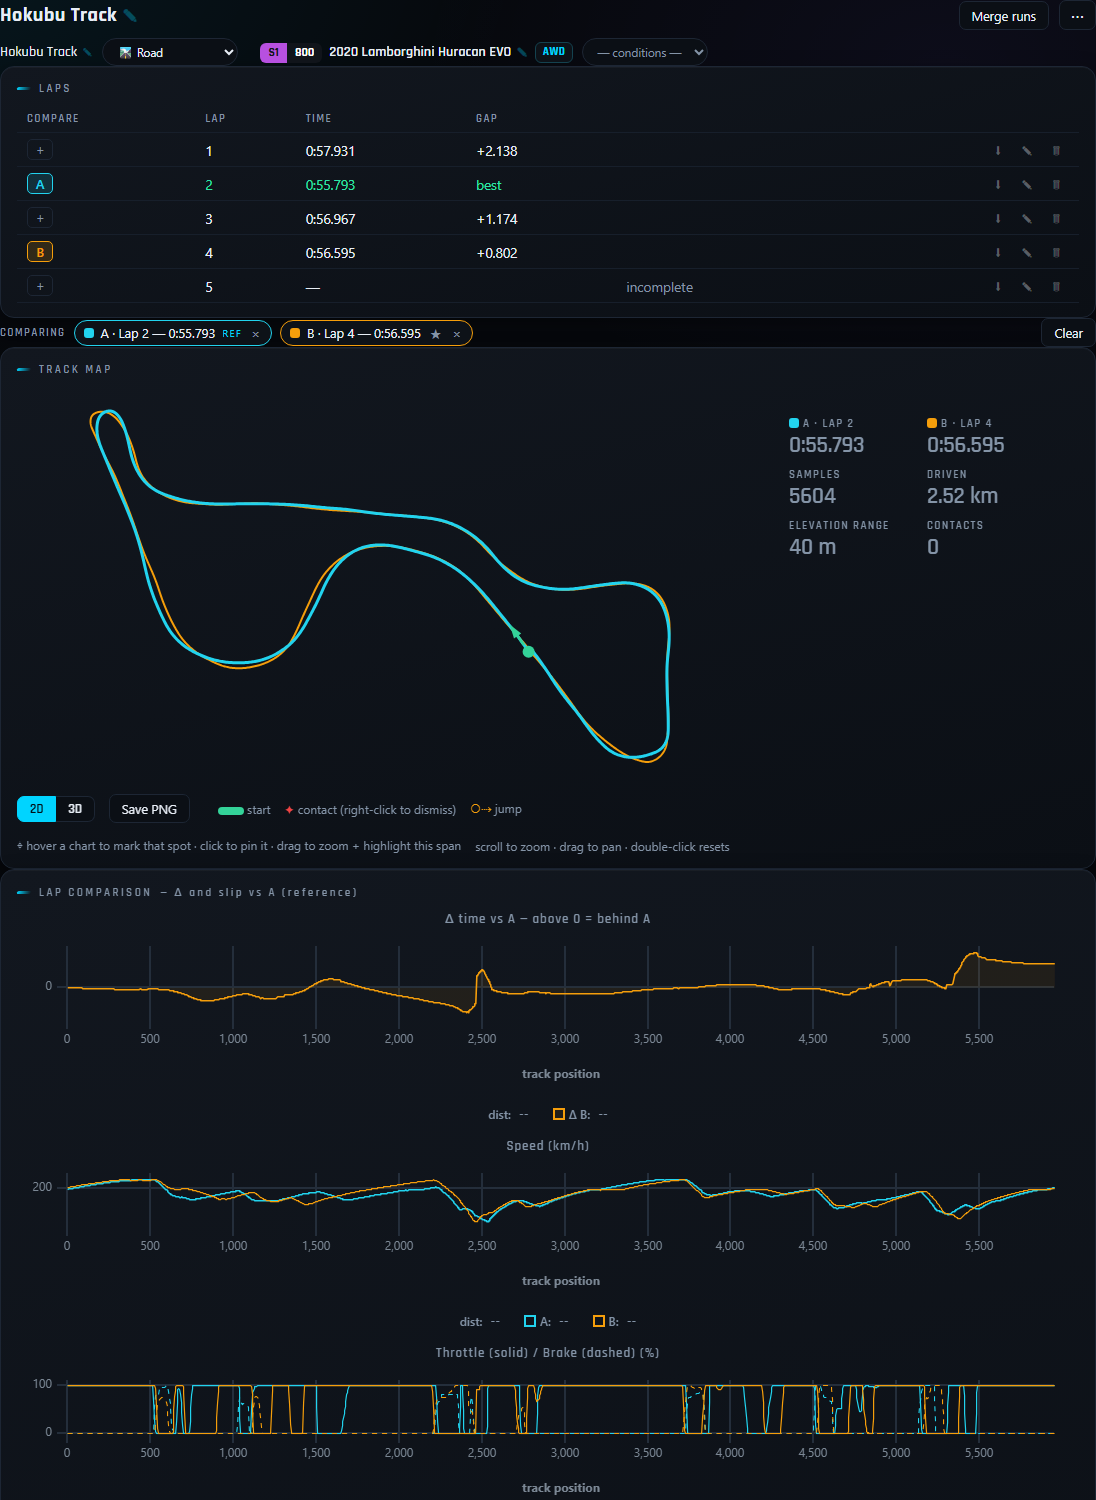
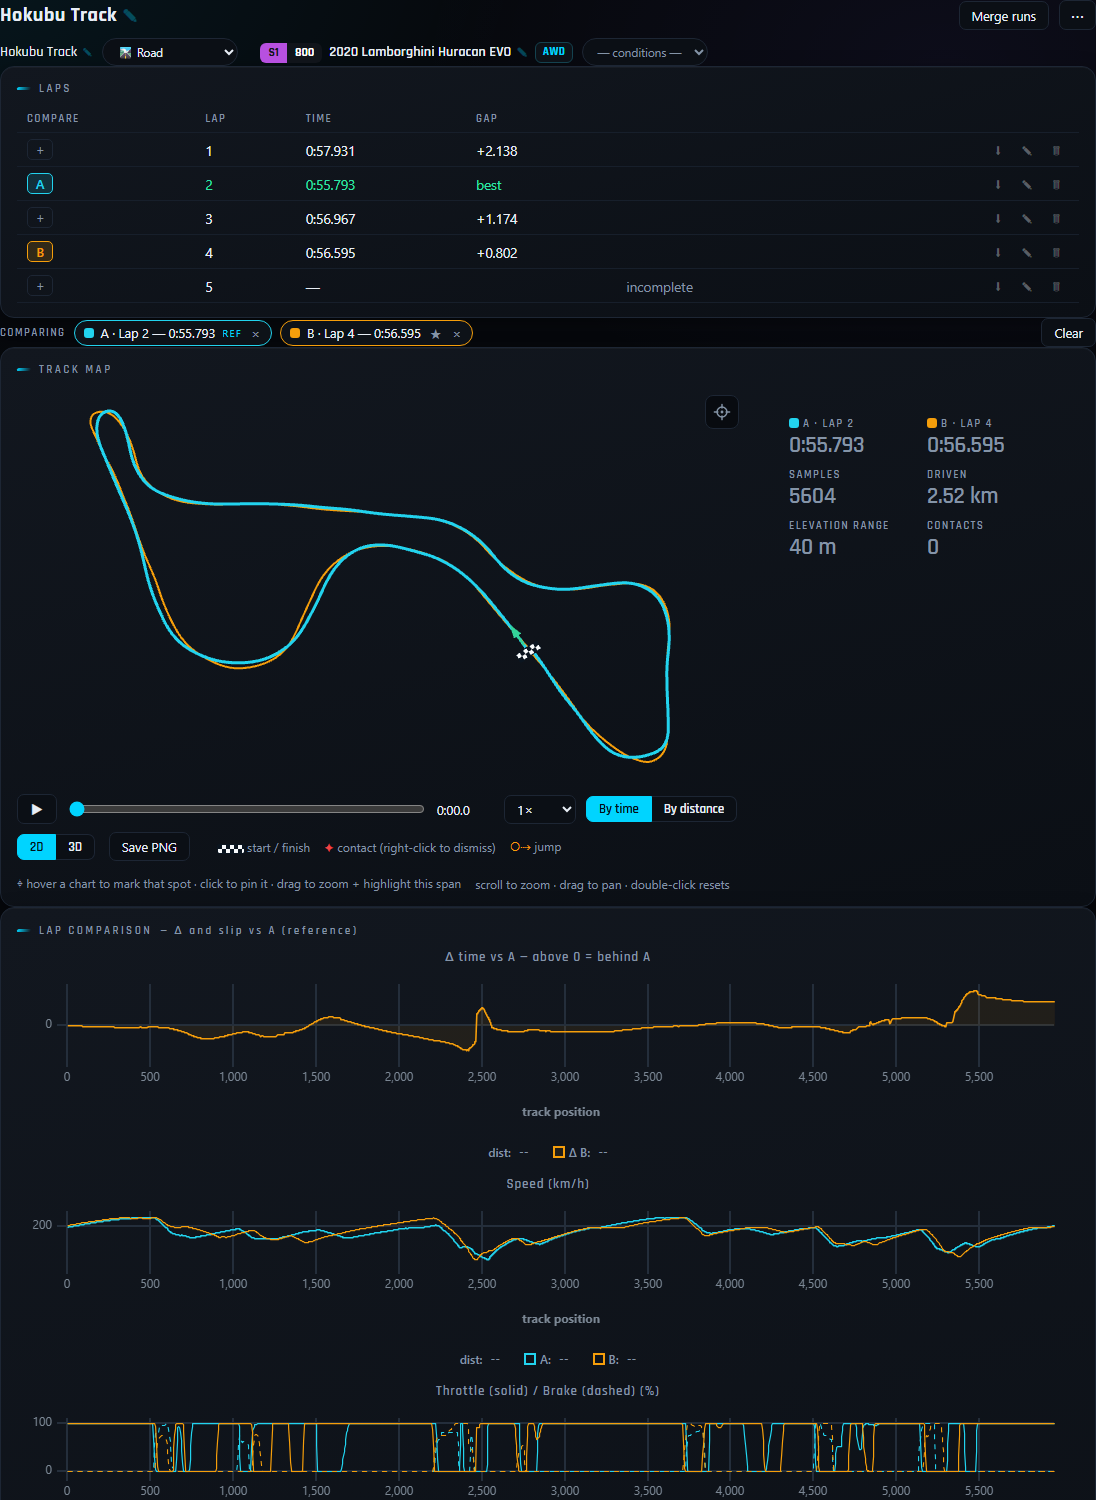
docs: recapture README and wiki media for the cockpit and the Pixi Analysis map (#100) (#114)
Closes #100.

## Media

Regenerated from the real `telemetry.db` with `tools/capture_media.py`:

| Output | Change |
|---|---|
| `hero.gif` | now the PixiJS cockpit (5.3 MB, under the 10 MB budget) |
| `accent-live-sunset.png`, `paused-chip.png` | cockpit; the paused crop
still frames the chip and the dim |
| `analysis-compare.png`, `track-map.png`, `track-map-3d-jumps.png`,
`track-map-3d-animated.gif` | Pixi map: replay row, chequered
start/finish line |
| **new** `ghost-replay.gif` | three Daikoku laps (0:47.154 / 0:47.625 /
0:47.898) racing on the map, follow camera on lap A, live gaps |
| **new** `cockpit-portrait.png` | the cockpit's tall layout at tablet
size |

`session-list`, `session-sidebar`, `browse-bar-menu`,
`csv-export-choice` and `settings` were recaptured too but differ only
in data (newer sessions, storage size), not chrome, so they are left as
they were. `launcher-window` and `fh6-settings` are unaffected.

## Tool

- New `ghost-replay` recipe: steps the Analysis replay clock frame by
frame (not filmed in real time), so the GIF doesn't depend on screenshot
speed. Manifest `ghost` block: `mode`, `speed`, `from_s`/`to_s`,
`follow`, `zoom`.
- `cockpit-portrait` reuses the live-still recipe; the tall viewport
picks the layout.
- Tests for the new clock-stepping helper and shot list.

## Docs

- README: the ghost replay GIF replaces the 3D map GIF (still four
images).
- Feature-Tour: both new images, better alt text.
[…]

diff --git a/tools/capture_media.py b/tools/capture_media.py
@@ -674,8 +674,51 @@ def shot_map_animated(browser, server, shot, _db) -> bytes:
         ctx.close()
 
 
+def ghost_clock_steps(lo: float, hi: float, ghost: dict, fps: float) -> list[float]:
+    """Replay-clock values, one per GIF frame. `from_s`/`to_s` are offsets
+    into the playable window [lo, hi]; `speed` is replay seconds per second
+    of GIF (so a 47 s lap at speed 4 plays in ~12 s)."""
+    start = lo + float(ghost.get("from_s", 0))
+    end = min(hi, lo + float(ghost["to_s"])) if "to_s" in ghost else hi
+    if end <= start:
+        raise RuntimeError(f"empty replay window {start:.1f}-{end:.1f}s")
+    step = float(ghost.get("speed", 4)) / fps
+    n = int((end - start) / step) + 1
+    return [start + i * step for i in range(n)]
+
+
+def shot_ghost_replay(browser, server, shot, _db) -> bytes:
+    """The Analysis ghost replay of the tagged laps, stepped frame by frame on
+    the replay clock rather than filmed in real time: every frame lands on an
+    exact clock value, whatever a screenshot costs."""
+    ctx, page = open_analysis(browser, server.base, shot)
+    try:
+        if not page.evaluate("() => !!pixiMap && !!refPick()"):
+            raise RuntimeError("the ghost replay needs the Pixi map and a tagged lap")
+        ghost = shot.get("ghost") or {}
+        fps = float(shot.get("fps", 12))
+        page.evaluate("m => { replay.mode = m; syncReplayControls(); }", ghost.get("mode", "time"))
+        lo, hi = page.evaluate("() => replayRange()")
+        steps = ghost_clock_steps(lo, hi, ghost, fps)
+        page.evaluate("t => { replay.t = t; replay.engaged = true; replayUpdate(); }", steps[0])
+        if ghost.get("follow"):   # lap A, held at the map's centre (its ease runs on rAF)
+            page.evaluate("() => { follow.target = 'ref'; setFollow(true); }")
+            page.wait_for_timeout(600)
+            if ghost.get("zoom"):   # closer than the camera's own lock-on zoom
+                page.evaluate("z => { mapView.zoom = z; drawMap(); replayUpdate(); }", float(ghost["zoom"]))
+        frames = []
+        for i, t in enumerate(steps):
+            page.evaluate("t => { replay.t = t; replayUpdate(); pixiMap.renderNow(); }", t)
+            frames.append((i / fps, _shoot(page, shot)))
+        return encode_within_budget(frames, shot)
+    finally:
+        ctx.close()
+
+
 RECIPES: dict[str, Callable] = {
     "hero": shot_hero,
+    "ghost-replay": shot_ghost_replay,
+    "cockpit-portrait": shot_accent_live,   # a live still; the viewport makes it tall
     "analysis-compare": shot_analysis_still,
     "track-map": shot_analysis_still,
     "track-map-3d-jumps": shot_analysis_still,

diff --git a/tests/test_capture_media.py b/tests/test_capture_media.py
@@ -26,7 +26,8 @@ DELETED = ["accent-analysis-violet.png", "hero.png", "live-map-jumps.png",
 SHOT_LIST = ["hero.gif", "analysis-compare.png", "track-map.png", "track-map-3d-jumps.png",
              "track-map-3d-animated.gif", "session-list.png", "session-sidebar.png",
              "settings.png", "accent-live-sunset.png", "paused-chip.png",
-             "browse-bar-menu.png", "csv-export-choice.png", "launcher-window.png"]
+             "browse-bar-menu.png", "csv-export-choice.png", "launcher-window.png",
+             "ghost-replay.gif", "cockpit-portrait.png"]
 
 
 def shot(output="a.png", kind="still", session=1, laps=(), **kw):
@@ -209,6 +210,19 @@ def test_pace_uses_stored_deltas():
     assert d[3] == cm.GAP_CAP_S              # gap capped
     assert d[4] == pytest.approx(0.01)
     assert list(cm.pace([])) == []
+
+
+def test_ghost_clock_steps_window_and_speed():
+    # whole playable window, 4 replay seconds per GIF second at 12 fps
+    steps = cm.ghost_clock_steps(1.0, 11.0, {"speed": 4}, 12)
+    assert steps[0] == 1.0 and steps[-1] <= 11.0
+    assert steps[1] - steps[0] == pytest.approx(4 / 12)
+    assert len(steps) == 31
+    # from_s / to_s are offsets into the window; to_s never runs past its end
+    sub = cm.ghost_clock_steps(1.0, 11.0, {"from_s": 2, "to_s": 50, "speed": 1}, 10)
+    assert sub[0] == 3.0 and sub[-1] <= 11.0 + 1e-9
+    with pytest.raises(RuntimeError, match="empty replay window"):
+        cm.ghost_clock_steps(1.0, 11.0, {"from_s": 20}, 12)
 
 
 # --- framing -----------------------------------------------------------------

diff --git a/docs/MEDIA.md b/docs/MEDIA.md
@@ -27,13 +27,23 @@ database they are refused as missing, so swap in your own. Set an id to
   `python tools/inspect_session.py --list --db <path>` (laps are rows in `laps.id`;
   the analysis page's lap table order is the same).
 - `replay`: `start_s` / `end_s`, offsets into the session's frames, for the live
-  shots (`hero.gif`, `accent-live-sunset.png`, `paused-chip.png`). Pick a stretch
+  shots (`hero.gif`, `accent-live-sunset.png`, `cockpit-portrait.png`,
+  `paused-chip.png`). Pick a stretch
   with the car moving. Frames are replayed in stored real time, so a window that
   covers one finished lap and part of the next (for a live delta and a drawn live
   map) costs a couple of minutes. `capture_after_s` (hero) and `shoot_after_s`
-  (sunset) say how far into the replay to start filming. Replay shots run after
+  (sunset, portrait) say how far into the replay to start filming or shoot. Replay shots run after
   the analysis shots, because each replay records a session of its own into the
   scratch copy and would otherwise top the session list.
+- `ghost` (`ghost-replay.gif`): the Analysis ghost replay of the shot's `laps`
+  (the first one is lap A). `mode` is `"time"` or `"dist"`, `speed` is replay
+  seconds per second of GIF, `from_s` / `to_s` optionally cut a stretch out of
+  the lap, `follow: true` locks the follow camera on lap A and `zoom` sets how
+  close it sits. The replay clock is *stepped* per frame, not filmed, so the
+  result does not depend on how fast the machine takes screenshots. Pick laps a
+  few tenths apart, or the cars sit on top of each other.
+- `cockpit-portrait.png` is a live still like the sunset one; its tall
+  `viewport` is what makes the cockpit pick its portrait layout.
 - `settings`: a partial `ls_settings` (accent, units, `defaultMapMode`...) injected
   before the page loads.
 - `element`: a CSS selector to frame instead of the viewport (one panel, the
@@ -80,7 +90,10 @@ recipes.
 
 ## Before committing
 
-- `hero.gif` must be <= 10 MB. The tool lowers fps, then scale, then colors until it
+- Commit on a `docs/…` branch: CI skips its test job there (see the comment at
+  the top of `.github/workflows/ci.yml`), so run `pytest -q` and `ruff check .`
+  yourself first.
+- Every GIF must be <= 10 MB. The tool lowers fps, then scale, then colors until it
   fits, and reports `failed (over budget, N MB)` (writing nothing) if nothing does.
 - **Look at every image for personal text** — car names, route names, custom session
   names shown in lists, headers and the map caption. Rename in the app (or pick other

diff --git a/docs/wiki/Feature-Tour.md b/docs/wiki/Feature-Tour.md
@@ -35,7 +35,12 @@ An optional **raw telemetry panel** (off by default, ⚙ Settings) shows every
 packet field live in game-native units, with a ⏸ Hold button to freeze the values
 mid-drive.
 
-![LapScope live dashboard](https://raw.githubusercontent.com/darcane/LapScope/main/docs/media/hero.gif)
+![The live cockpit: tach, lap timer, live delta, tires, live track map and input trace](https://raw.githubusercontent.com/darcane/LapScope/main/docs/media/hero.gif)
+
+On a portrait screen (a tablet beside the rig, say) the same cockpit re-stacks
+into one column — tach, timing and delta, then grip, then the map and the trace:
+
+<img src="https://raw.githubusercontent.com/darcane/LapScope/main/docs/media/cockpit-portrait.png" alt="The live cockpit re-stacked for a portrait tablet" width="420" />
 
 **When the game pauses.** FH6 stops sending telemetry the moment it loses focus,
 so alt-tabbing to a second screen just shows an amber **paused** chip instead of
@@ -90,6 +95,8 @@ button: lap A, the **Leader** (the lap furthest round the track — *By time*
 only; a new leader must hold the lead for half a second before the camera
 moves), or any other tagged lap. Dragging to pan, double-clicking, or clicking
 the button again gives you the free camera back.
+
+![Three tagged laps racing each other on the track map, follow camera on lap A](https://raw.githubusercontent.com/darcane/LapScope/main/docs/media/ghost-replay.gif)
 
 The map draws with WebGL. If your browser can't (hardware acceleration off, a
 VM, remote desktop), it falls back to the plain map without the replay; you can

diff --git a/AGENTS.md b/AGENTS.md
@@ -68,6 +68,11 @@ FH6 ──UDP 9999──▶ listener.py ─▶ packet.py parse ─┬─▶ hub.
   or `fix/…` branch off `main`, commit there, and land it via a pull request
   with CI green — not by committing straight to `main`. `main` is the
   protected, release branch. The owner pushes and opens the PR.
+  Docs-only work (README, `docs/`, media, the media capture tool) goes on a
+  `docs/…` branch: CI skips its test job there to save Actions minutes (see
+  the comment at the top of `.github/workflows/ci.yml`), so run `pytest -q`
+  and `ruff check .` locally first — and never use that prefix for a change
+  the app or the exe runs.
 - **Static files are baked into the image.** Any change under `app/` requires
   `docker compose build` + restart. There is no bind mount for code.
 - **Only `desktop/ui.py` may import tkinter.** The rest of the launcher

diff --git a/README.md b/README.md
@@ -14,7 +14,7 @@ you can see *where* you're losing time and *why*.
 [![CI](https://github.com/darcane/LapScope/actions/workflows/ci.yml/badge.svg)](../../actions/workflows/ci.yml)
 [![License: MIT](https://img.shields.io/badge/License-MIT-blue.svg)](LICENSE)
 
-![LapScope live dashboard](docs/media/hero.gif)
+![LapScope's live cockpit replaying a real Forza Horizon 6 lap](docs/media/hero.gif)
 
 </div>
 
@@ -102,7 +102,7 @@ Then just drive. Telemetry is only sent while you're driving (not in menus). You
 
 ![Analysis lap comparison](docs/media/analysis-compare.png)
 
-![Track map in 3D, drag-to-rotate](docs/media/track-map-3d-animated.gif)
+![Three laps racing each other in the ghost replay](docs/media/ghost-replay.gif)
 
 **[Take the full Feature Tour →](../../wiki/Feature-Tour)** — every screen, with
 what each part does.

diff --git a/ARCHITECTURE.md b/ARCHITECTURE.md
@@ -252,7 +252,9 @@ A missing `Origin` (a script, a CLI tool) is allowed.
   imported lazily; maintainer-only, never imported by `app/` or `desktop/`, not
   installed in CI. Copies the DB read-only into a temp dir, runs its own uvicorn
   on it (`LS_OFFLINE=1`, loopback-only browser), replays stored frames over UDP
-  for the live shots, and `os.replace`s each output only after it succeeded. UI
+  for the live shots, steps the Analysis replay clock frame by frame for the
+  ghost-replay GIF (so it doesn't depend on screenshot speed), and
+  `os.replace`s each output only after it succeeded. UI
   selectors live in one constants block at the top of the file.
 
 ## Tests (`tests/`, pytest — no container, no game)
